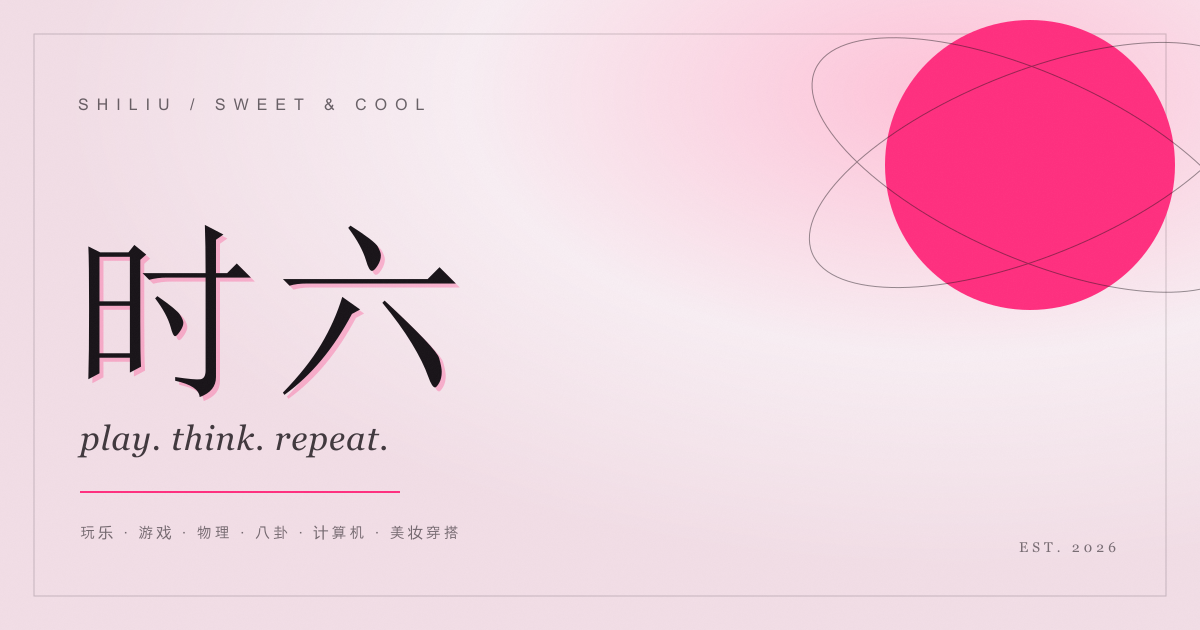
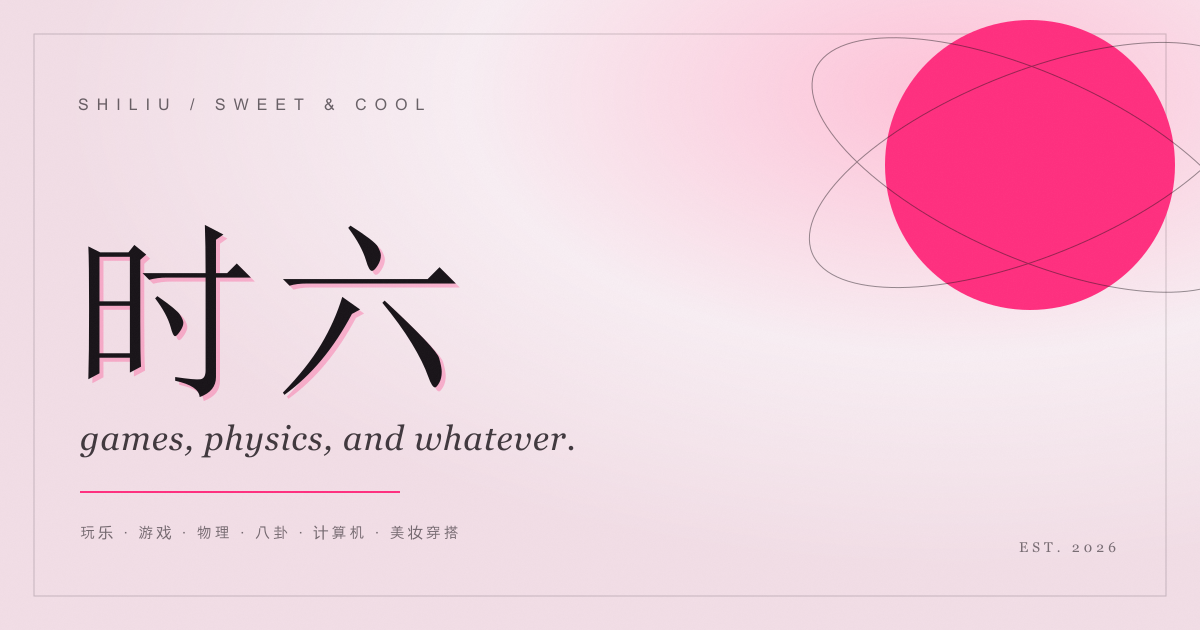
Rewrite site copy in a more natural voice

Changed region(s): [[0.0617, 0.6635, 0.4625, 0.7238]]

diff --git a/src/config.ts b/src/config.ts
@@ -2,9 +2,9 @@ export const SITE = {
   title: '时六',
   name: '时六',
   latin: 'SHILIU',
-  tagline: '在游戏与公式之间，随手记点。',
+  tagline: '游戏、物理、计算机，还有一些日常。',
   description:
-    '时六的个人博客：玩乐、游戏、物理、八卦、计算机与美妆穿搭。没有垂直领域，只有持续好奇。',
+    '时六的个人博客。写玩乐、游戏、物理、八卦、计算机和美妆穿搭，想到什么写什么。',
   author: '时六',
   location: '互联网 · 某处',
   since: 2026,
@@ -15,15 +15,15 @@ export const SITE = {
     { label: '关于', href: '/about/' },
   ],
   socials: [
-    { label: 'GitHub', href: 'https://github.com/tokiro16', handle: '@tokiri16' },
+    { label: 'GitHub', href: 'https://github.com/tokiro16', handle: '@tokiro16' },
   ],
   topics: [
-    { name: '玩乐', description: '桌游、散步、旅行，认真玩耍也是正事。', count: '01' },
-    { name: '游戏', description: '通关记录、机制拆解，以及一些废话。', count: '02' },
-    { name: '物理', description: '用公式解释生活，也接受解释不了。', count: '03' },
-    { name: '八卦', description: '人物、故事、传闻，保持好奇但不下判断。', count: '04' },
-    { name: '计算机', description: '代码、工具、折腾电脑的日常。', count: '05' },
-    { name: '美妆穿搭', description: '颜色、材质，以及今天穿什么。', count: '06' },
+    { name: '玩乐', description: '桌游、散步、旅行，想到什么玩什么。', count: '01' },
+    { name: '游戏', description: '最近在玩什么，卡在哪，怎么过的。', count: '02' },
+    { name: '物理', description: '一些物理问题，和怎么也讲不明白的日常。', count: '03' },
+    { name: '八卦', description: '听来的故事，和一点自己的看法。', count: '04' },
+    { name: '计算机', description: '代码、工具，还有折腾电脑的日常。', count: '05' },
+    { name: '美妆穿搭', description: '今天穿什么，以及为什么。', count: '06' },
   ],
 } as const;
 

diff --git a/src/scripts/main.ts b/src/scripts/main.ts
@@ -115,7 +115,7 @@ function loadSearchIndex(): Promise<void> {
     })
     .catch(() => {
       if (searchResults) {
-        searchResults.innerHTML = '<p class="search-empty">搜索索引加载失败，请刷新页面后重试。</p>';
+        searchResults.innerHTML = '<p class="search-empty">搜索没加载出来，刷新一下试试。</p>';
       }
     });
 
@@ -172,8 +172,8 @@ function renderSearch(query: string) {
   if (visibleResults.length === 0) {
     searchResults.innerHTML = `
       <div class="search-empty">
-        没有找到「${escapeHtml(normalized)}」<br />
-        <span style="font-size: .75rem; opacity: .7">试试更短的关键词，或浏览全部文章。</span>
+        没找到「${escapeHtml(normalized)}」<br />
+        <span style="font-size: .75rem; opacity: .7">换个短一点的关键词试试，或者去看全部文章。</span>
       </div>
     `;
     return;

diff --git a/src/content/posts/tablet-second-screen.md b/src/content/posts/tablet-second-screen.md
@@ -1,6 +1,6 @@
 ---
 title: 平板变副屏和手柄
-description: 电脑没有蓝牙，也没有第二块屏幕。用 Sunshine + ParsecVDD + Moonlight，把平板变成副屏和手柄接收器。
+description: 电脑没有蓝牙，也没有第二块屏。我用 Sunshine + ParsecVDD + Moonlight，把平板变成了副屏，顺便当手柄接收器。
 date: 2026-11-27
 category: 计算机
 tags: [Sunshine, Moonlight, 串流, 平板, 折腾]
@@ -8,9 +8,9 @@ cover: tablet-second-screen.jpg
 featured: true
 ---
 
-今天完成了一个小目标：**让平板同时当副屏和手柄接收器。**
+今天把平板同时当成了副屏和手柄接收器。
 
-听起来像是在绕远路，但我的电脑既没有第二块屏幕，也没有蓝牙模块。与其买一块便携屏和一根蓝牙适配器，不如先试试手里已经有的设备。
+电脑没有第二块屏，也没有蓝牙。手里正好有平板，就先拿它试了。
 
 ![桌面实拍：主屏、平板副屏和手柄](/covers/tablet-second-screen.jpg)
 
@@ -28,13 +28,13 @@ featured: true
 
 思路很简单：先凭空造一块虚拟屏幕，让 Sunshine 只推这块屏，平板用 Moonlight 接住画面；手柄则通过平板的蓝牙连接，再由 Moonlight 把输入转发回电脑。
 
-## 第一步：造一块不存在的屏幕
+## 第一步：先造一块虚拟屏
 
 安装 ParsecVDD 之后，在 Windows 的显示设置里添加一块虚拟显示器。
 
-这一步很关键。因为电脑本来没有第二块物理屏幕，如果不创建虚拟屏，Windows 根本没有可以「扩展」的目标。ParsecVDD 的作用就是让系统以为这里真的有一块屏。
+电脑本来没有第二块物理屏幕。不创建虚拟屏，Windows 就没有可以扩展的目标。ParsecVDD 的作用就是让系统以为这里真的有一块屏。
 
-虚拟屏刚出现时，分辨率可能很奇怪，也可能被排在主屏的右边或左边。可以先去显示设置里把它调到和平板接近的分辨率，比如 1920 × 1200 或 2560 × 1600。
+刚加出来的虚拟屏，分辨率可能不对，也可能被排在主屏左边或右边。先去显示设置里调到接近平板的分辨率，比如 1920 × 1200 或 2560 × 1600。
 
 ### 为什么还需要 MultiMonitorTool
 
@@ -46,9 +46,9 @@ MultiMonitorTool 可以列出当前所有显示器，并把指定窗口移动到
 
 打开 Sunshine，在 **Troubleshooting** 页面里找到显示设备的 `device_id`。虚拟屏和主屏都会出现在列表里，注意不要选错。
 
-复制虚拟屏的 ID，回到 **Settings → Video**，把它填到显示设备相关的选项里。不同版本的 Sunshine 选项名称可能略有差异，但核心就是指定「只捕获这块屏幕」。
+复制虚拟屏的 ID，回到 **Settings → Video**，把它填到显示设备相关的选项里。各版本选项名不太一样，反正就是让它只抓这块屏。
 
-然后设置分辨率、帧率和码率。我的原则是：
+然后设置分辨率、帧率和码率。我一般这样设：
 
 - 分辨率和平板保持一致，避免画面被拉伸。
 - 帧率先设 60，够用再往上加。
@@ -56,7 +56,7 @@ MultiMonitorTool 可以列出当前所有显示器，并把指定窗口移动到
 
 Sunshine 的 Web 管理界面记得设置密码。它是局域网工具，不要把端口直接暴露到公网。
 
-## 第三步：平板接住画面
+## 第三步：让平板显示画面
 
 在平板上安装 Moonlight，让它和电脑连在同一个局域网里。
 
@@ -68,7 +68,7 @@ Sunshine 的 Web 管理界面记得设置密码。它是局域网工具，不要
 
 ## 第四步：手柄反过来连电脑
 
-这是我觉得最妙的一步。
+手柄这部分是我最喜欢的。
 
 电脑没有蓝牙，但平板有。把手柄通过蓝牙连接到平板，Moonlight 会把客户端的输入转发给主机，包括手柄输入。
 
@@ -94,7 +94,7 @@ Sunshine 的 Web 管理界面记得设置密码。它是局域网工具，不要
 
 手柄的延迟在本地 Wi-Fi 下可以接受，玩动作游戏和模拟器没什么问题；音游或者对帧数极其敏感的竞技射击，还是老老实实插线更稳。
 
-这套方案不是唯一解，也谈不上完美。但它把两块本来闲置的能力——平板的屏幕和蓝牙——重新接回了电脑。对喜欢折腾的人来说，这比直接买一套新硬件有意思得多。
+这套方案不一定适合所有人，也还谈不上完美。不过平板的屏幕和蓝牙现在都用上了，对我来说，这比再买一套硬件有意思。
 
 下一步想给平板做个支架，再把显示配置和一键启动串流写成脚本。等弄好了再记一篇。
 
